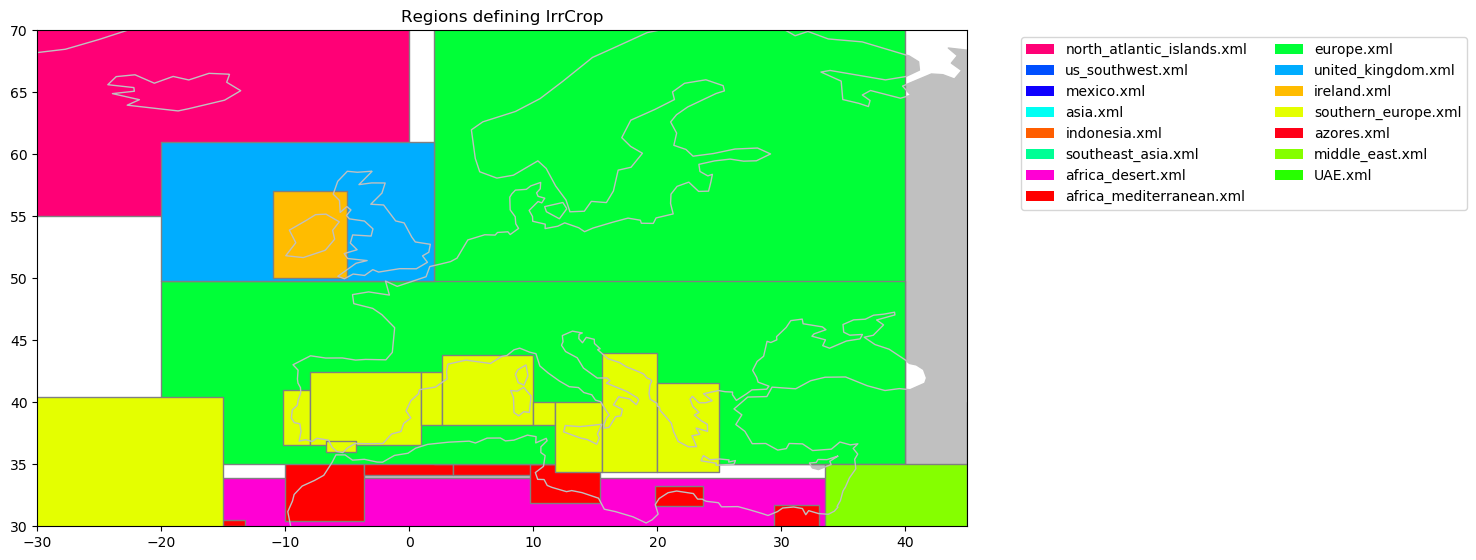
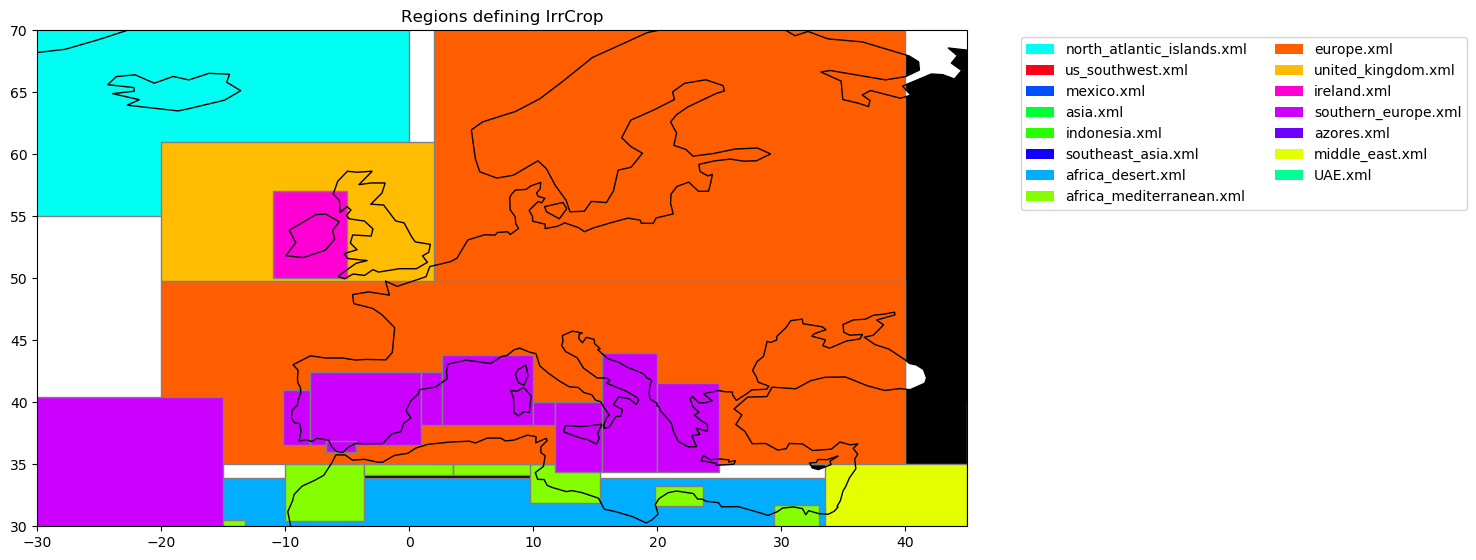
Enhance documentation

diff --git a/README.md b/README.md
@@ -89,7 +89,9 @@ python3 plot_regions.py --single $FG_ROOT/Materials/regions
 All regions, single file, with legend, output to `examples/regions.png`:
 
 ```
-python3 plot_regions.py --legend --output examples --single $FG_ROOT/Materials/regions
+python3 plot_regions.py \
+    --single --legend --output examples \
+    $FG_ROOT/Materials/regions
 ```
 
 ![All regions, legend](https://raw.githubusercontent.com/Juanvvc/plot_regions/master/examples/regions.png)
@@ -97,16 +99,23 @@ python3 plot_regions.py --legend --output examples --single $FG_ROOT/Materials/r
 All regions defining IrrCrop, output to `materials/IrrCrop.png`, with legend:
 
 ```
-python3 plot_regions.py --single --legend --material IrrCrop --output materials -a 1 --edgecolor gray $FG_ROOT/Materials/regions
+python3 plot_regions.py \
+    --single --legend --material IrrCrop --output materials \
+    --edgecolor gray -a 1 \
+    $FG_ROOT/Materials/regions
 ```
 
 ![IrrCrop](https://raw.githubusercontent.com/Juanvvc/plot_regions/master/materials/IrrCrop.png)
 
 
-All regions defining IrrCrop, output to './IrrCrop.png', order as priorities:
+All regions defining IrrCrop, output to './IrrCrop.png', focused on Europe:
 
 ```
-python3 plot_regions.py --single --legend --material IrrCrop --output materials -a 1 --edgecolor gray --boundaries '[-30, 45, 30, 70]' $FG_ROOT/Materials/regions
+python3 plot_regions.py \
+    --single --legend --material IrrCrop --output examples \
+    --edgecolor gray -a 1 --worldcolor black \
+    --boundaries '[-30, 45, 30, 70]' \
+    $FG_ROOT/Materials/regions
 ```
 
 ![IrrCrop Europe](https://raw.githubusercontent.com/Juanvvc/plot_regions/master/examples/IrrCrop.png)
